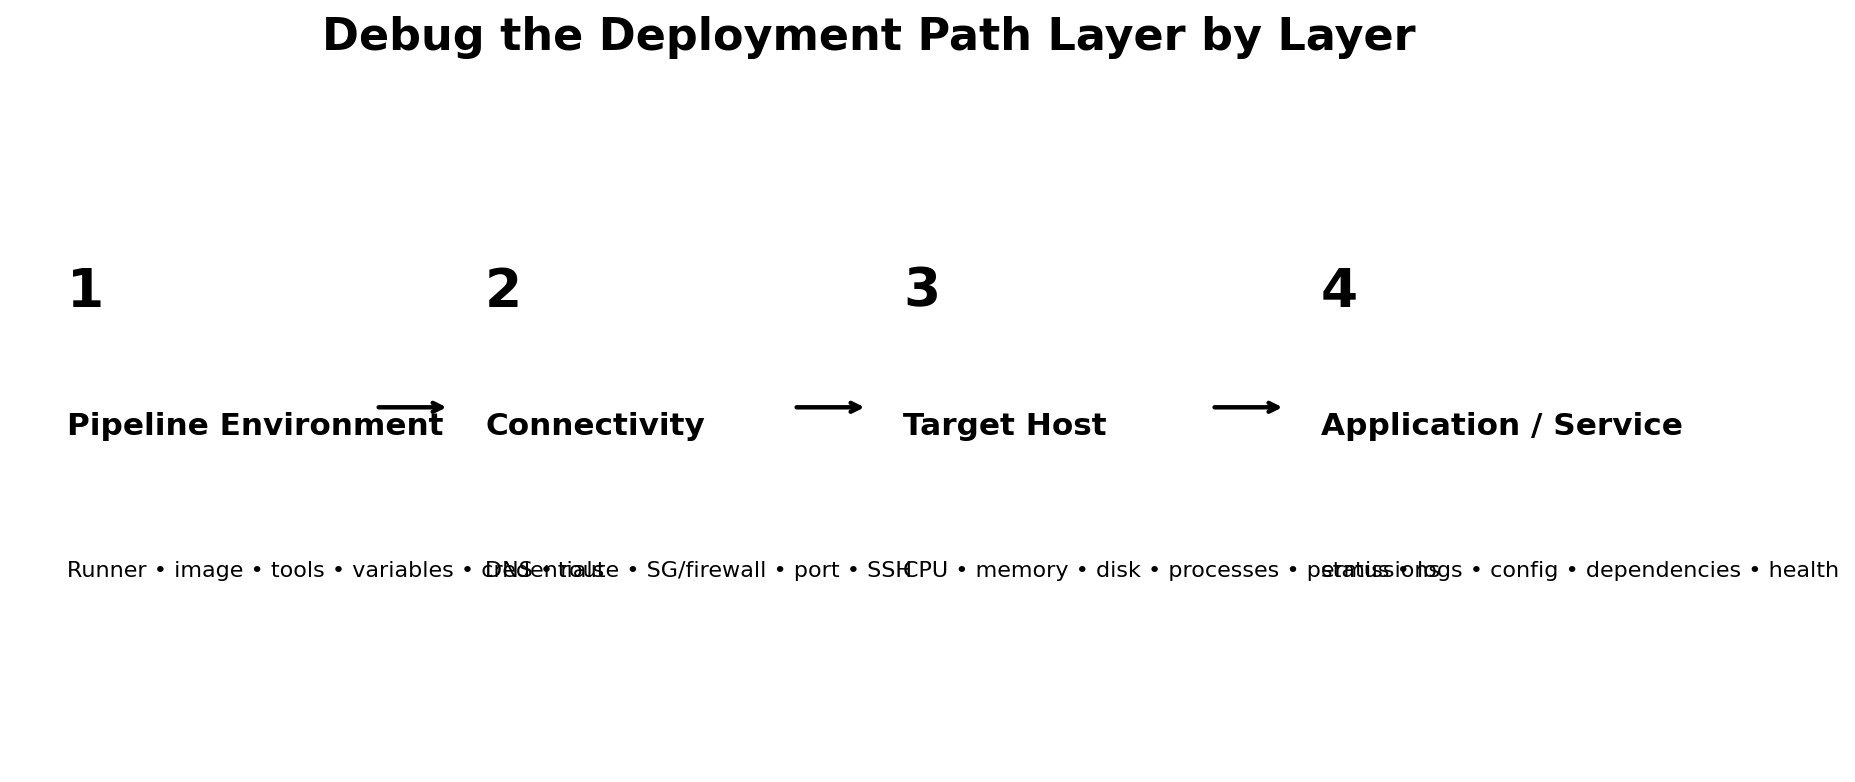
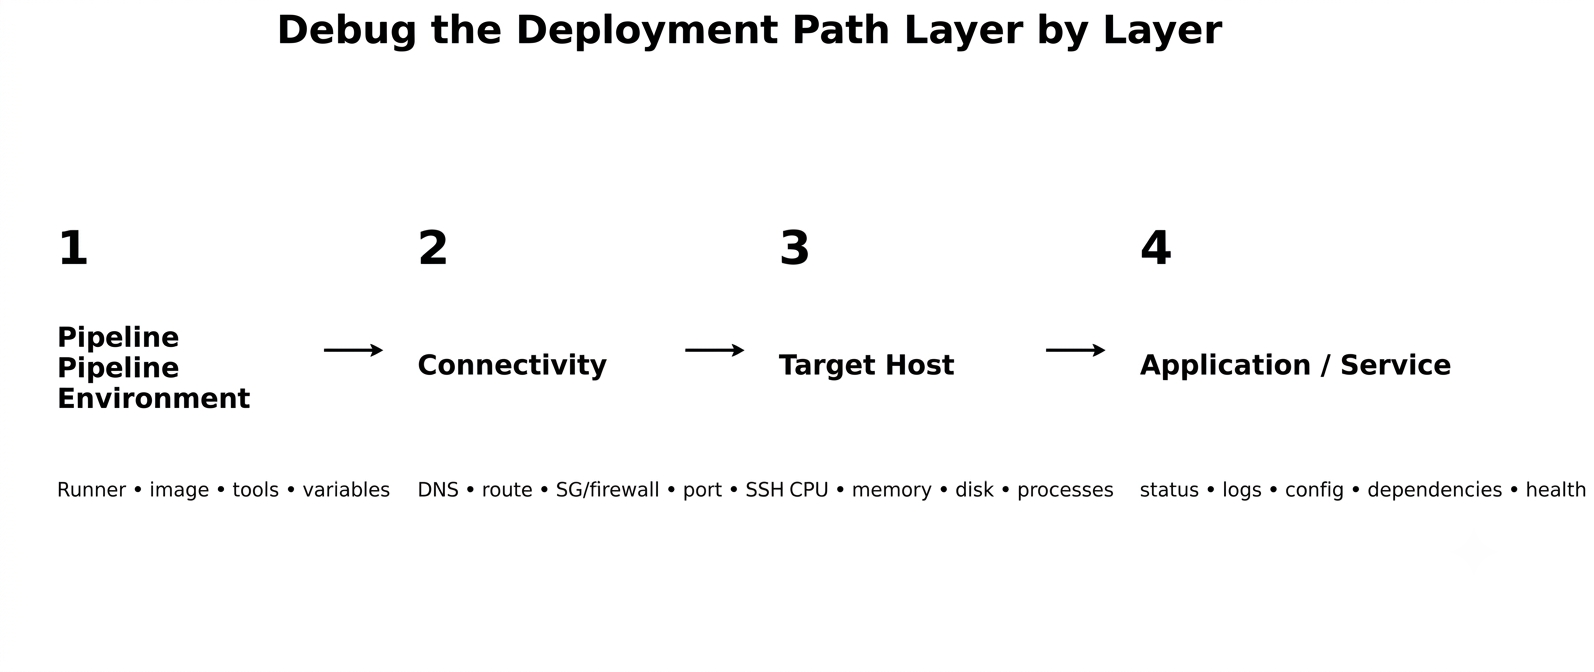
updated blog post images

diff --git a/styles.v4.0.0.css b/styles.v4.0.0.css
@@ -26,5 +26,7 @@ html[data-scale="compact"]{--scale:.9}html[data-scale="large"]{--scale:1.1}html[
 .sr-only{position:absolute;width:1px;height:1px;padding:0;margin:-1px;overflow:hidden;clip:rect(0,0,0,0);white-space:nowrap;border:0}
 .repo-folder{width:100%;border:0;background:transparent;text-align:left;cursor:pointer}.markdown-table-wrap{max-width:100%;margin:1.5rem 0;overflow-x:auto}.markdown-table-wrap table{width:100%;border-collapse:collapse}.markdown-table-wrap th,.markdown-table-wrap td{min-width:120px;padding:.7rem .8rem;border:1px solid var(--line);vertical-align:top}.markdown-table-wrap th{background:var(--surface);color:var(--ink);font-weight:700}.markdown-table-wrap td{color:var(--muted)}
 .repo-view-file{width:100%;border:0;background:transparent;text-align:left;cursor:pointer}.repo-file-viewer{margin-top:1.25rem;border:1px solid var(--line);scroll-margin-top:90px;overflow:hidden}.repo-file-viewer[hidden]{display:none}.repo-close-file{border:0;background:transparent;color:inherit;cursor:pointer;font:inherit}.repo-code{max-height:70vh;margin:0;padding:1.25rem;overflow:auto;background:var(--surface);white-space:pre;tab-size:2}.repo-image-preview{padding:2rem;text-align:center}.repo-image-preview img{max-width:100%;max-height:75vh}.certificate-main{max-width:1400px;margin:0 auto;padding:3rem clamp(20px,5vw,72px) 5rem}.certificate-header{padding:2rem 0}.certificate-header h1{font-size:clamp(2.2rem,5vw,5rem);line-height:1;margin:.75rem 0}.pdf-notice{padding:1rem;border:1px solid var(--line);background:var(--surface);font-size:.82rem;color:var(--muted)}.pdf-frame-wrap{height:min(82vh,1000px);margin-top:1rem;border:1px solid var(--line);overflow:hidden}.pdf-frame-wrap iframe{width:100%;height:100%;border:0;background:#555}
+.article-main,.article-body{min-width:0}.article-body{overflow-wrap:anywhere}.article-body figure{max-width:100%;margin:2rem 0;overflow:hidden}.article-body img{display:block;width:auto;max-width:100%;height:auto;margin:2rem auto;object-fit:contain}.article-body picture,.article-body picture img{max-width:100%}.article-body pre,.article-body code{max-width:100%}.article-body pre{overflow-x:auto}.article-body .markdown-table-wrap{width:100%}
+@media(max-width:820px){.article-main{padding-left:20px;padding-right:20px}.article-body img{width:100%}}
 @media(max-width:900px){.focus-grid,.post-grid,.credential-layout{grid-template-columns:1fr}.site-header nav{display:none}.writing-head{align-items:flex-start;flex-direction:column;gap:1.5rem}.blog-row{grid-template-columns:1fr}.blog-row>div:first-child{flex-direction:row}.blog-row>span{text-align:left}.blog-controls{align-items:stretch;flex-direction:column}.blog-controls input{width:100%}}
 @media(max-width:700px){.project-main{padding-top:2rem}.repo-summary{grid-template-columns:1fr 1fr}.repo-summary>div:first-child{grid-column:1/-1;border-right:0;border-bottom:1px solid var(--line)}.repo-summary>div:nth-child(2){border-right:1px solid var(--line)}.repo-browser-head{align-items:flex-start;flex-direction:column}}

diff --git a/index.html b/index.html
@@ -9,7 +9,7 @@
   <link rel="preconnect" href="https://fonts.googleapis.com">
   <link rel="preconnect" href="https://fonts.gstatic.com" crossorigin>
   <link href="https://fonts.googleapis.com/css2?family=DM+Mono:wght@400;500&family=Manrope:wght@400;500;600;700;800&display=swap" rel="stylesheet">
-  <link rel="stylesheet" href="styles.v4.0.0.css?v=4.8.6">
+  <link rel="stylesheet" href="styles.v4.0.0.css?v=4.8.7">
   <link rel="icon" type="image/x-icon" href="assets/favicon.ico">
 </head>
 <body>
@@ -46,7 +46,7 @@
     <section id="contact" class="contact-section"><div id="contact-eyebrow" class="contact-eyebrow"></div><h2>LET'S WORK<br>TOGETHER.</h2><div id="contact-links" class="contact-links"></div></section>
   </main>
 
-  <footer><span>© <span id="year"></span> <span id="footer-name"></span></span><span>Version 4.8.6 · GitHub Pages Edition</span></footer>
+  <footer><span>© <span id="year"></span> <span id="footer-name"></span></span><span>Version 4.8.7 · GitHub Pages Edition</span></footer>
 
   <dialog id="customizer" class="customizer">
     <form method="dialog" class="customizer-panel">
@@ -60,6 +60,6 @@
   </dialog>
 
   <noscript>This portfolio requires JavaScript to load content from JSON.</noscript>
-  <script src="script.v4.0.0.js?v=4.8.6" defer></script>
+  <script src="script.v4.0.0.js?v=4.8.7" defer></script>
 </body>
 </html>

diff --git a/project.html b/project.html
@@ -11,7 +11,7 @@
     <link
         href="https://fonts.googleapis.com/css2?family=DM+Mono:wght@400;500&family=Manrope:wght@400;500;600;700;800&display=swap"
         rel="stylesheet">
-    <link rel="stylesheet" href="styles.v4.0.0.css?v=4.8.6">
+    <link rel="stylesheet" href="styles.v4.0.0.css?v=4.8.7">
     <link rel="icon" type="image/x-icon" href="assets/favicon.ico">
 </head>
 
@@ -25,7 +25,7 @@
     <main class="project-main"><a class="back-link" href="index.html#projects">← Back to projects</a>
         <article id="project-viewer"></article>
     </main>
-    <footer><span>© <span id="year"></span> Sazad Ahemad</span><span>Version 4.8.6</span></footer>
+    <footer><span>© <span id="year"></span> Sazad Ahemad</span><span>Version 4.8.7</span></footer>
     <dialog id="customizer" class="customizer">
         <form method="dialog" class="customizer-panel">
             <div class="customizer-head">
@@ -56,7 +56,7 @@
             </fieldset><button id="reset-appearance" type="button" class="reset-btn">Reset appearance</button>
         </form>
     </dialog>
-    <script src="script.v4.0.0.js?v=4.8.6" defer></script>
+    <script src="script.v4.0.0.js?v=4.8.7" defer></script>
 </body>
 
 </html>

diff --git a/post.html b/post.html
@@ -11,7 +11,7 @@
     <link
         href="https://fonts.googleapis.com/css2?family=DM+Mono:wght@400;500&family=Manrope:wght@400;500;600;700;800&display=swap"
         rel="stylesheet">
-    <link rel="stylesheet" href="styles.v4.0.0.css?v=4.8.6">
+    <link rel="stylesheet" href="styles.v4.0.0.css?v=4.8.7">
     <link rel="icon" type="image/x-icon" href="assets/favicon.ico">
 </head>
 
@@ -24,7 +24,7 @@
     <main class="article-main"><a class="back-link" href="blog.html">← Back to writing</a>
         <article id="article"></article>
     </main>
-    <footer><span>© <span id="year"></span> Sazad Ahemad</span><span>Version 4.8.6</span></footer>
+    <footer><span>© <span id="year"></span> Sazad Ahemad</span><span>Version 4.8.7</span></footer>
     <dialog id="customizer" class="customizer">
         <form method="dialog" class="customizer-panel">
             <div class="customizer-head">
@@ -55,7 +55,7 @@
             </fieldset><button id="reset-appearance" type="button" class="reset-btn">Reset appearance</button>
         </form>
     </dialog>
-    <script src="script.v4.0.0.js?v=4.8.6" defer></script>
+    <script src="script.v4.0.0.js?v=4.8.7" defer></script>
 </body>
 
 </html>

diff --git a/blog.html b/blog.html
@@ -12,7 +12,7 @@
   <link
     href="https://fonts.googleapis.com/css2?family=DM+Mono:wght@400;500&family=Manrope:wght@400;500;600;700;800&display=swap"
     rel="stylesheet">
-  <link rel="stylesheet" href="styles.v4.0.0.css?v=4.8.6">
+  <link rel="stylesheet" href="styles.v4.0.0.css?v=4.8.7">
   <link rel="icon" type="image/x-icon" href="assets/favicon.ico">
 </head>
 
@@ -35,7 +35,7 @@
     </section>
     <section id="all-posts" class="all-posts"></section>
   </main>
-  <footer><span>© <span id="year"></span> Sazad Ahemad</span><span>Version 4.8.6</span></footer>
+  <footer><span>© <span id="year"></span> Sazad Ahemad</span><span>Version 4.8.7</span></footer>
   <dialog id="customizer" class="customizer">
     <form method="dialog" class="customizer-panel">
       <div class="customizer-head">
@@ -65,7 +65,7 @@
       </fieldset><button id="reset-appearance" type="button" class="reset-btn">Reset appearance</button>
     </form>
   </dialog>
-  <script src="script.v4.0.0.js?v=4.8.6" defer></script>
+  <script src="script.v4.0.0.js?v=4.8.7" defer></script>
 </body>
 
 </html>

diff --git a/certificate.html b/certificate.html
@@ -7,7 +7,7 @@
     <meta name="theme-color" content="#ffffff">
     <meta name="robots" content="noindex">
     <title>Certificate — Sazad Ahemad</title>
-    <link rel="stylesheet" href="styles.v4.0.0.css?v=4.8.6">
+    <link rel="stylesheet" href="styles.v4.0.0.css?v=4.8.7">
     <link rel="icon" type="image/x-icon" href="assets/favicon.ico">
 </head>
 
@@ -20,8 +20,8 @@
             <div class="repo-loading">Loading certificate…</div>
         </article>
     </main>
-    <footer><span>© <span id="year"></span> Sazad Ahemad</span><span>Version 4.8.6</span></footer>
-    <script src="script.v4.0.0.js?v=4.8.6" defer></script>
+    <footer><span>© <span id="year"></span> Sazad Ahemad</span><span>Version 4.8.7</span></footer>
+    <script src="script.v4.0.0.js?v=4.8.7" defer></script>
 </body>
 
 </html>

diff --git a/404.html b/404.html
@@ -6,7 +6,7 @@
     <meta name="viewport" content="width=device-width,initial-scale=1">
     <meta name="robots" content="noindex">
     <title>Page not found — Sazad Ahemad</title>
-    <link rel="stylesheet" href="styles.v4.0.0.css?v=4.8.6">
+    <link rel="stylesheet" href="styles.v4.0.0.css?v=4.8.7">
     <link rel="icon" type="image/x-icon" href="assets/favicon.ico">
     <style>
         .not-found {
